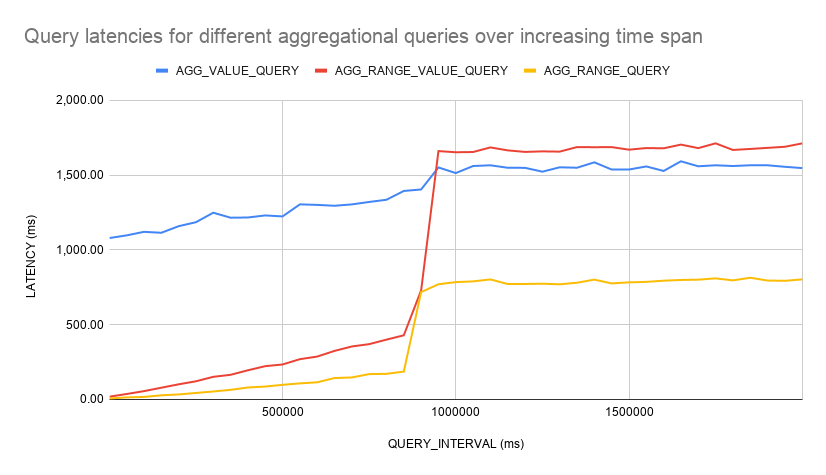
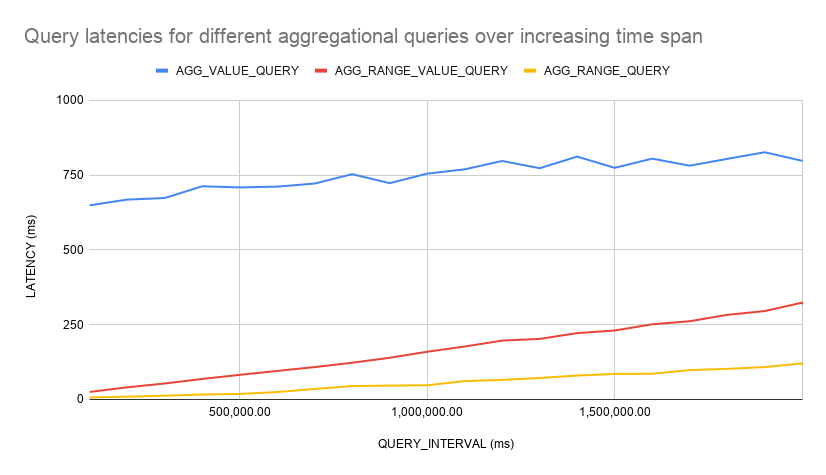
add new results

diff --git a/results/Continuous Aggregates Experiments.md b/results/Continuous Aggregates Experiments.md
@@ -3,6 +3,7 @@
 When querying time-ranges, query latency increases over increasing time spans. This expected behavior can be seen in the figure below:
 
 ![Timescale Query Interval Increasing](img/TS_QUERY_INT_INC_QUERY.png)
+![Timescale Query Interval Increasing](img/TS_QUERY_INT_INC_QUERY_2.png)
 
 Test List:
 - AGG_TEST_01: No continuous queries specified. Ingestion test, query test with increasing query_interval
@@ -235,6 +236,55 @@ Throughput not that different for ingestion but CPU load much higher and stayed 
 After more data points have been inserted, the regular SQL query counts 362883 data points for the specified interval while the view query counts 362880 (off by 3). 
 - Regular query Execution time: 159.562 ms
 - Cont. Agg query Execution time: 21.899 ms
+
+## Average instead of count:
+
+```sql
+CREATE VIEW device_average
+WITH (timescaledb.continuous) --This flag is what makes the view continuous
+AS
+SELECT
+  time_bucket('60000', time) as bucket, --time_bucket is required, bucket will be of integer, as timestamp is in BIGINT. 60000 = 1 min
+  device,
+  avg(s_0) as metric_avg --We can use any parallelizable aggregate
+FROM
+  agg_test_04
+GROUP BY bucket, device; --We have to group by the bucket column, but can also add other group-by columns
+```
+
+```sql
+-- aggRangeQuery like:
+EXPLAIN ANALYZE -- will show how long the query executed
+SELECT device, avg(s_0) FROM agg_test_04 WHERE (device='d_0') 
+    AND (time >= 1579449640000 and time <= 1580054440000) -- time range of one week
+    GROUP BY device; 
+``` 
+Execution time: 153.490 ms, Result: 3.98699704863508
+
+```sql
+ALTER VIEW device_average SET (timescaledb.refresh_interval = '5 sec');
+ALTER VIEW device_average SET (timescaledb.refresh_lag = '5000');
+```
+
+```sql
+EXPLAIN ANALYZE -- will show how long the query executed
+SELECT AVG(metric_avg) FROM device_average
+WHERE device = 'd_0'
+  AND bucket >= '1579449640000' AND bucket < '1580054440000'; -- time format like  2020-02-25 13:08:39.912372+00
+```
+Execution time: 27.909 ms, Result:  3.98698139880956
+
+CPU consumption when the continuous aggregate got enabled: 
+![CPU when enable cont. aggregate](img/cpu_consumption_when_cont_agg_enabled.PNG)
+
+Rerun ingestion test with ingestion throughput significantly lowered to 18469.41 points/s.
+
+| "id" | "CLIENT\_NUMBER" | "GROUP\_NUMBER" | "DEVICE\_NUMBER" | "SENSOR\_NUMBER" | "BATCH\_SIZE" | "LOOP\_RATE" | "REAL\_INSERT\_RATE" | "POINT\_STEP" | "INGESTION\_THROUGHPUT" |
+|------|------------------|-----------------|------------------|------------------|---------------|--------------|----------------------|---------------|-------------------------|
+| "7"  | "20"             | "1"             | "1"              | "1"              | "5000"        | "50"         | "1"                  | "5000"        | "18469.41"              |
+
+CPU consumption when both continuous aggregates (count and average) got enabled: 
+![CPU when enable cont. aggregate](img/cpu_consumption_when_2_cont_agg_enabled.PNG)
 
 # Util
 
